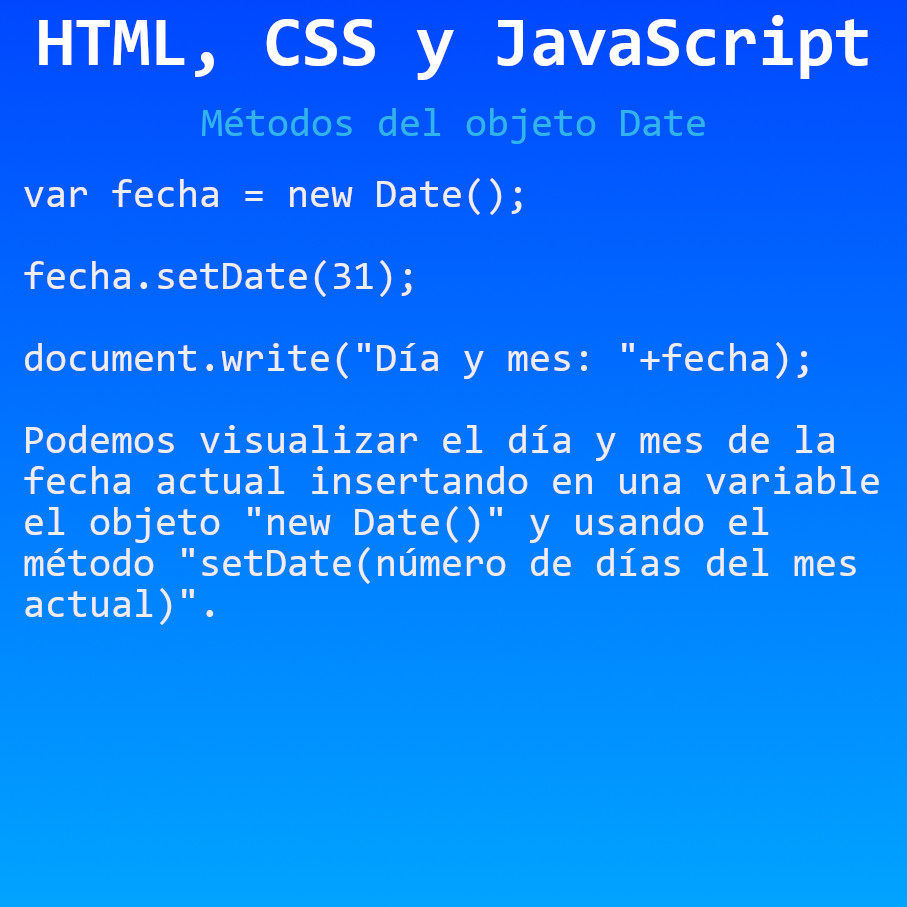
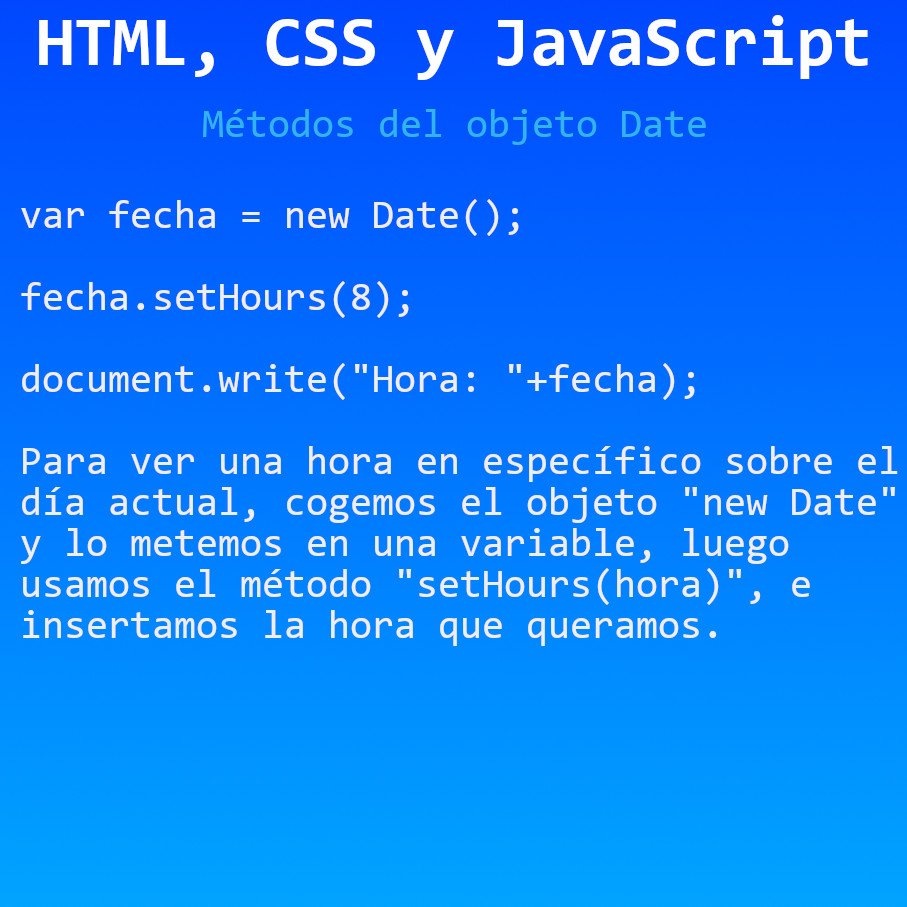
Métodos del objeto Date
Métodos del objeto Date en JavaScript

diff --git a/HTML, CSS y JavaScript/Métodos del objeto Date/js/funciones.js b/HTML, CSS y JavaScript/Métodos del objeto Date/js/funciones.js
@@ -80,8 +80,15 @@ document.write("GMT: "+gmt);
 document.write("<hr>");
 // VER DÍA DEL MES
 // coger día del mes de la fecha actual
-fecha.setDate(31);
+fecha.setDate(21);
 // MOSTRAR EN PANTALLA
-document.write("Día y mes: "+fecha);
+document.write("Día del mes: "+fecha);
+// SALTO DE LÍNEA
+document.write("<hr>");
+// VER HORA
+// coger hora específica
+fecha.setHours(8);
+// MOSTRAR EN PANTALLA
+document.write("Hora: "+fecha);
 // SALTO DE LÍNEA
 document.write("<hr>");
